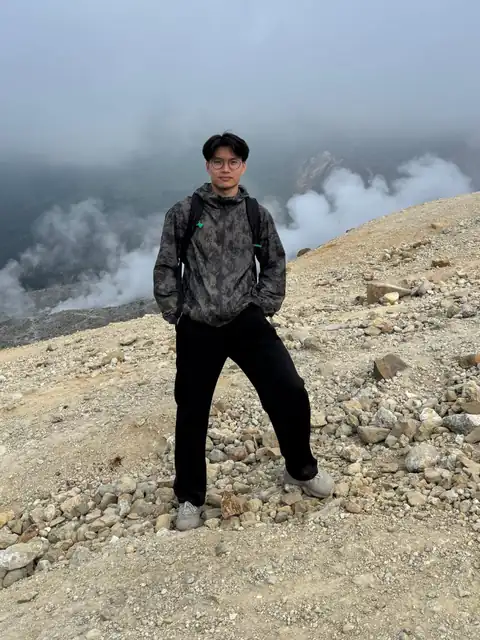
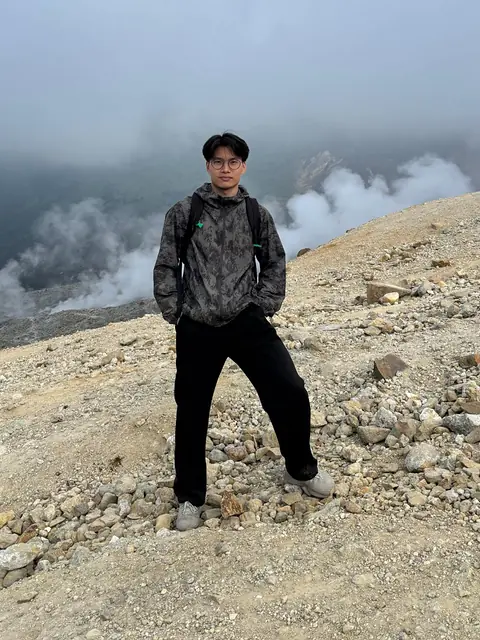
perf: serve the hero at native resolution with far less compression
The previous export downscaled the crop and encoded at q52 to protect LCP,
which softened an already small face. Now the 1050px crop is served as-is
(q80), with sharpened 760 and 480 variants for smaller screens.
Lighthouse stays 100 on / and /work/aspen-os.

Changed region(s): [[0.75, 0.75, 0.7812, 0.7812]]

diff --git a/components/hero.tsx b/components/hero.tsx
@@ -140,14 +140,14 @@ export function Hero() {
             <picture>
               <source
                 type="image/webp"
-                srcSet="/portrait-hero-480.webp 480w, /portrait-hero-760.webp 760w, /portrait-hero-960.webp 960w"
+                srcSet="/portrait-hero-480.webp 480w, /portrait-hero-760.webp 760w, /portrait-hero-1050.webp 1050w"
                 sizes="(min-width: 1024px) 380px, (min-width: 768px) 340px, 100vw"
               />
               <img
-                src="/portrait-hero-960.jpg"
+                src="/portrait-hero-1050.jpg"
                 alt="Lionael Surya standing on a rocky mountainside with clouds and steam behind him"
-                width={960}
-                height={1280}
+                width={1050}
+                height={1400}
                 fetchPriority="high"
                 className="portrait-breathe size-full object-cover grayscale transition-[filter] duration-700 group-hover:grayscale-0"
               />
